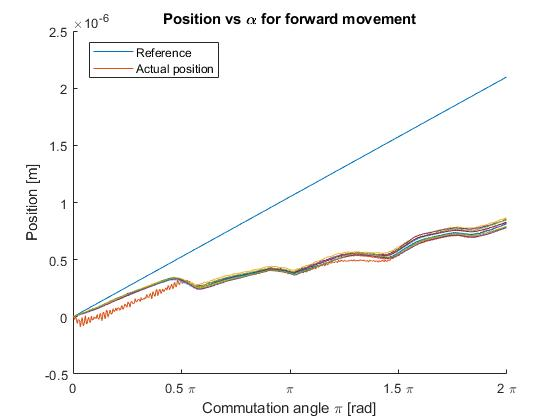
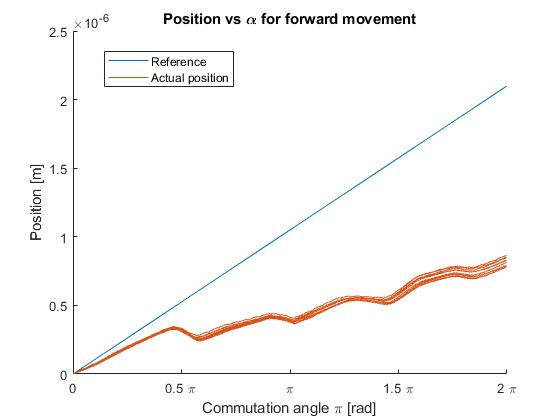
create plot for experiments

diff --git a/Experiment 2/plots_error.m b/Experiment 2/plots_error.m
@@ -2,17 +2,24 @@ clc; clear all; close all;
 
 first = load("Data exp2\firstexp.mat");
 final = load("Data exp2\fittweakedexcepthysteresis.mat");
-% first = load("Data exp2\firt.mat");
+try_wave= load("Data exp2\expfinal_02_01_005_min015.mat");
 % loadnoff = load("Data exp2\.mat");
 % loadnoff = load("Data exp2\.mat");
 % loadnoff = load("Data exp2\.mat");
 
 %% create variables
-error_slope = first.expData.error(3:end);
+error_slope = first.expData.error;
 angle_slope = first.expData.commAngle;
 
-error_slope_tuned = final.expData.error;
-angle_slope_tuned = final.expData.commAngle;
+error_slope_tuned = final.expData.error(3:end);
+angle_slope_tuned = final.expData.commAngle(3:end);
+position_tuned = final.expData.position(3:end);
+ref_tuned = final.expData.idealPos(3:end);
+
+error_try = try_wave.expData.error(3:end);
+angle_try = try_wave.expData.commAngle(3:end);
+position_try = try_wave.expData.position(3:end);
+ref_try = try_wave.expData.idealPos(3:end);
 
 %finding length N
 zeros_found = find(angle_slope==0);
@@ -24,18 +31,73 @@ N_new = zeros_found_new(4)-zeros_found_new(3);
 
 
 %% figures
+% error
 figure
 hold on
 for i = 1:9
-plot(angle_slope(1+i*N:N+i*N),error_slope(1+i*N:N+i*N)-error_slope(1+i*N))
-plot(angle_slope_tuned(1+i*N_new:N_new+i*N_new),error_slope_tuned(1+i*N_new:N_new+i*N_new)-error_slope_tuned(1+i*N_new))
+plot(angle_slope(1+i*N:N+i*N),error_slope(1+i*N:N+i*N)-error_slope(1+i*N), Color=[0, 0.4470, 0.7410])
+plot(angle_slope_tuned(1+i*N_new:N_new+i*N_new),error_slope_tuned(1+i*N_new:N_new+i*N_new)-error_slope_tuned(1+i*N_new),Color=[0.8500, 0.3250, 0.0980])
 end
-xline(pi/2,Color='k')
-xline(pi,Color='k')
-xline(pi*3/2,Color='k')
+xline(0.05*2*pi,Color='k')
+xline(0.45*2*pi,Color='k')
+xline(0.55*2*pi,Color='k')
+xline(0.95*2*pi,Color='k')
+% xline(pi/2,Color='k')
+% xline(pi,Color='k')
+% xline(pi*3/2,Color='k')
+yline(0,'k--')
 xlabel('Commutation angle \pi [rad]')
 xticks([0 pi/2 pi 3/2*pi 2*pi])
 xticklabels({'0','0.5 \pi','\pi','1.5 \pi', '2 \pi'})
 xlim([0 2*pi])
 ylabel('Error [m]')
 title('Error vs \alpha for forward movement, no FF')
+legend('Non-optimized gain','Optimized gain')
+
+% position forward
+figure
+hold on
+plot(angle_slope_tuned(1:N_new),ref_tuned(1:N_new)-ref_tuned(1), Color=[0, 0.4470, 0.7410])
+for i = 1:9
+plot(angle_slope_tuned(1+i*N_new:N_new+i*N_new),position_tuned(1+i*N_new:N_new+i*N_new)-position_tuned(1+i*N_new),Color=[0.8500, 0.3250, 0.0980])
+end
+% plot(noff.expData.commAngle(1:840),noff.expData.idealPos(1:840)-noff.expData.idealPos(1))
+% xline(pi/2,Color='k')
+% xline(pi,Color='k')
+% xline(pi*3/2,Color='k')
+xline(0.05*2*pi,Color='k')
+xline(0.45*2*pi,Color='k')
+xline(0.55*2*pi,Color='k')
+xline(0.95*2*pi,Color='k')
+xlabel('Commutation angle \pi [rad]')
+xticks([0 pi/2 pi 3/2*pi 2*pi])
+xticklabels({'0','0.5 \pi','\pi','1.5 \pi', '2 \pi'})
+xlim([0 2*pi])
+ylabel('Position [m]')
+title('Position vs \alpha for forward movement')
+legend('Reference','Actual position')
+
+%% figures try waveforms
+
+figure
+hold on
+for i = 1:9
+% plot(angle_slope(1+i*N:N+i*N),error_slope(1+i*N:N+i*N)-error_slope(1+i*N), Color=[0, 0.4470, 0.7410])
+plot(angle_slope_tuned(1+i*N_new:N_new+i*N_new),error_slope_tuned(1+i*N_new:N_new+i*N_new)-error_slope_tuned(1+i*N_new), Color=[0, 0.4470, 0.7410])
+plot(angle_try(1+i*N_new:N_new+i*N_new),error_try(1+i*N_new:N_new+i*N_new)-error_try(1+i*N_new), Color=[0.8500, 0.3250, 0.0980])
+end
+xline(0.05*2*pi,Color='k')
+xline(0.45*2*pi,Color='k')
+xline(0.55*2*pi,Color='k')
+xline(0.95*2*pi,Color='k')
+% xline(pi/2,Color='k')
+% xline(pi,Color='k')
+% xline(pi*3/2,Color='k')
+yline(0,'k--')
+xlabel('Commutation angle \pi [rad]')
+xticks([0 pi/2 pi 3/2*pi 2*pi])
+xticklabels({'0','0.5 \pi','\pi','1.5 \pi', '2 \pi'})
+xlim([0 2*pi])
+ylabel('Error [m]')
+title('Error vs \alpha for forward movement, no FF')
+legend('Non-optimized wave form','First try wave form')

diff --git a/piezo_sim_first_trials_TimM/plots_exp1.m b/piezo_sim_first_trials_TimM/plots_exp1.m
@@ -50,8 +50,8 @@ title('Error vs \alpha for backward movement, no FF')
 figure
 hold on
 plot(noff.expData.commAngle(1:840),noff.expData.idealPos(1:840)-noff.expData.idealPos(1))
-for i = 0:10
-plot(noff.expData.commAngle(1+i*840:840+i*840),noff.expData.position(1+i*840:840+i*840)-noff.expData.position(1+i*840))
+for i = 1:10
+plot(noff.expData.commAngle(1+i*840:840+i*840),noff.expData.position(1+i*840:840+i*840)-noff.expData.position(1+i*840),Color=[0.8500, 0.3250, 0.0980])
 end
 % plot(noff.expData.commAngle(1:840),noff.expData.idealPos(1:840)-noff.expData.idealPos(1))
 % xline(pi/2,Color='k')
